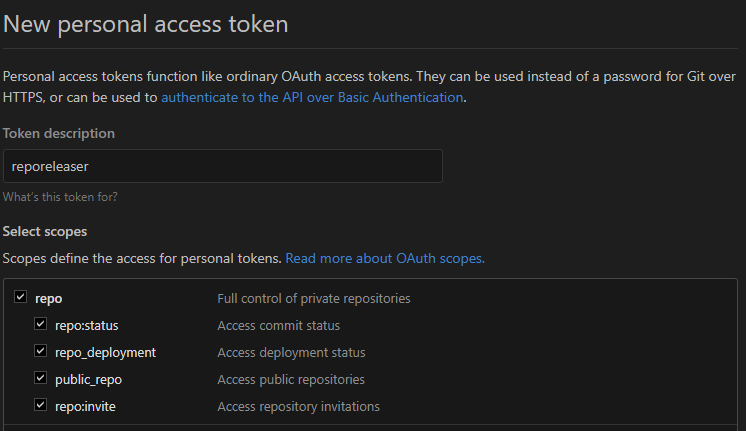
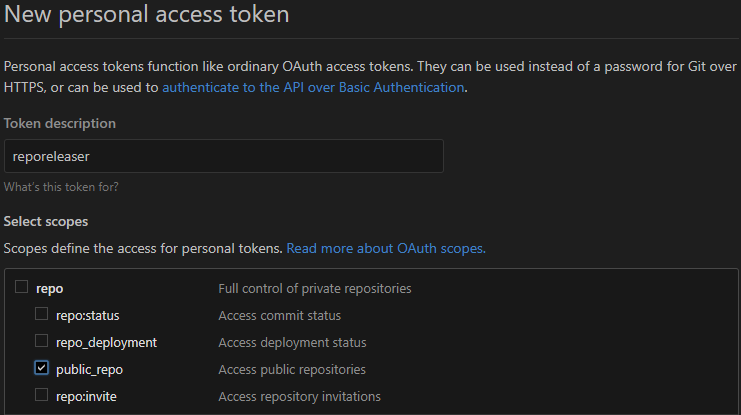
Change access token requirement

diff --git a/README.md b/README.md
@@ -63,7 +63,7 @@ This release was created with [reporeleaser][reporeleaser] :tada:
 ## option `--token`
 
 A personal access token for your GitHub account.  
-This token **needs** access to all `repo` scopes.
+This token **needs** at least access to the `repo\public_repo` scope.
 
 You can create a new token in the [Developer settings](https://github.com/settings/tokens/new).
 
